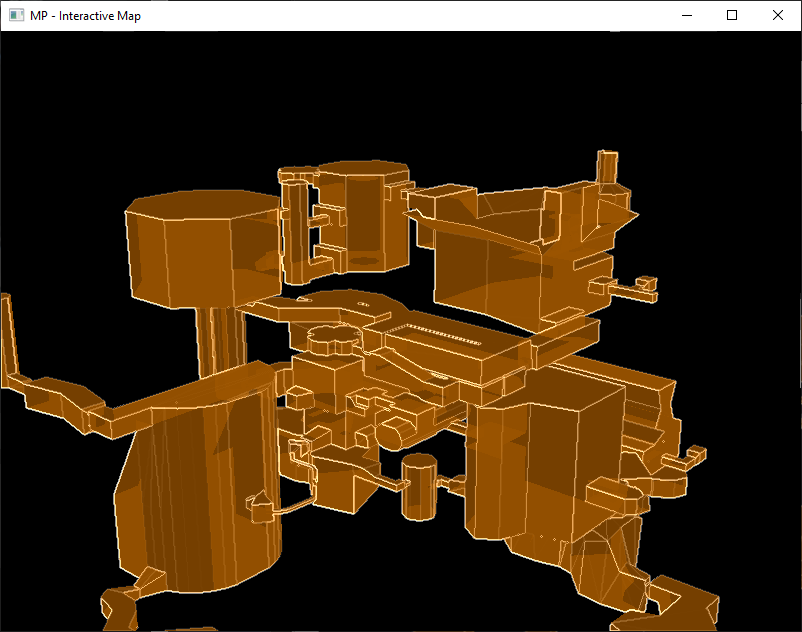
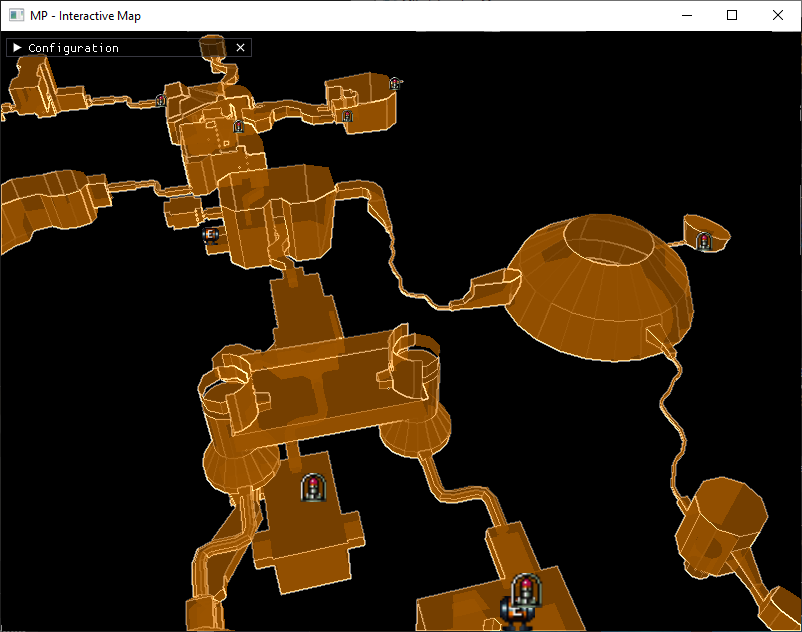
Update on the Metroid Prime map application.
New screenshots to show improved icons

Forgot to update project status

diff --git a/_posts/2023-3-20-MPInteractiveMap.md b/_posts/2023-3-20-MPInteractiveMap.md
@@ -1,6 +1,6 @@
 ---
 layout: project-carousel
-status: 2
+status: 1
 title: Metroid Prime - Interactive Map
 order: 0
 
@@ -56,3 +56,13 @@ In the following screenshots, I show what the different areas of the game look l
 -------------------------------------------------
 
 Icons rendering was added as a first version. The result is a little bit rough but it does show the right data for the users. For now I would like to integrate ImGui library in the project to control some settings at runtime as a next step for this project.
+
+-------------------------------------------------
+
+###Update as of March 31st, 2023
+
+I was able to polish the icons rendering step a little bit more. I think that with this update, I am at a very good state for this project. There are surely some logic in this project that is far from ideal for the performance side of things.
+
+* Icon texture data upload process: There could be ways to upload multiple textures in one block
+* The way the icons vertices is generated: As of now, the vertex data for icons on the map is aligned and generated on the CPU side. This would be better suited for a compute pass on the GPU where this data could be generated faster. This would also let us setup the draw data in a buffer located in device local memory and then use DrawIndirect(...) for even better performance.
+* The controls: I was not able to have the logic apply the translation motions after the rotations when aligning the translation based off of the view space. I am not sure what I was missing to make this work. I might go back and try again to have better controls later on
